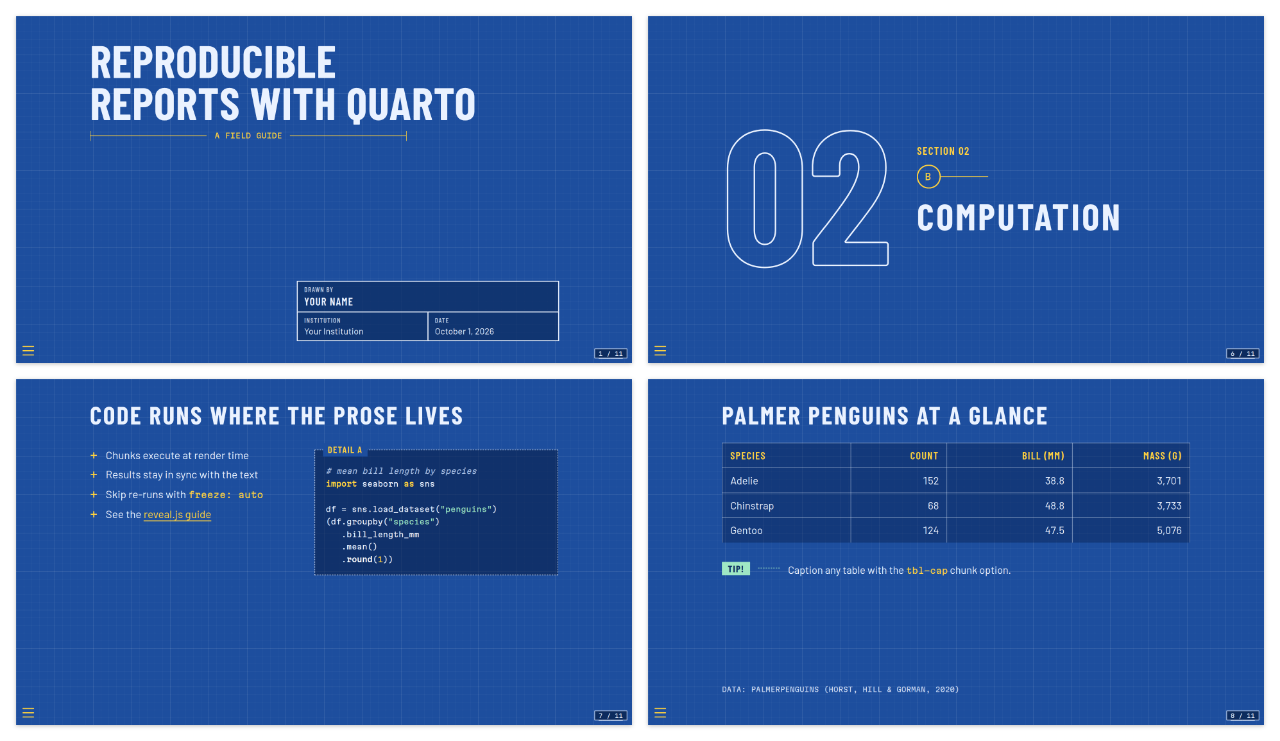
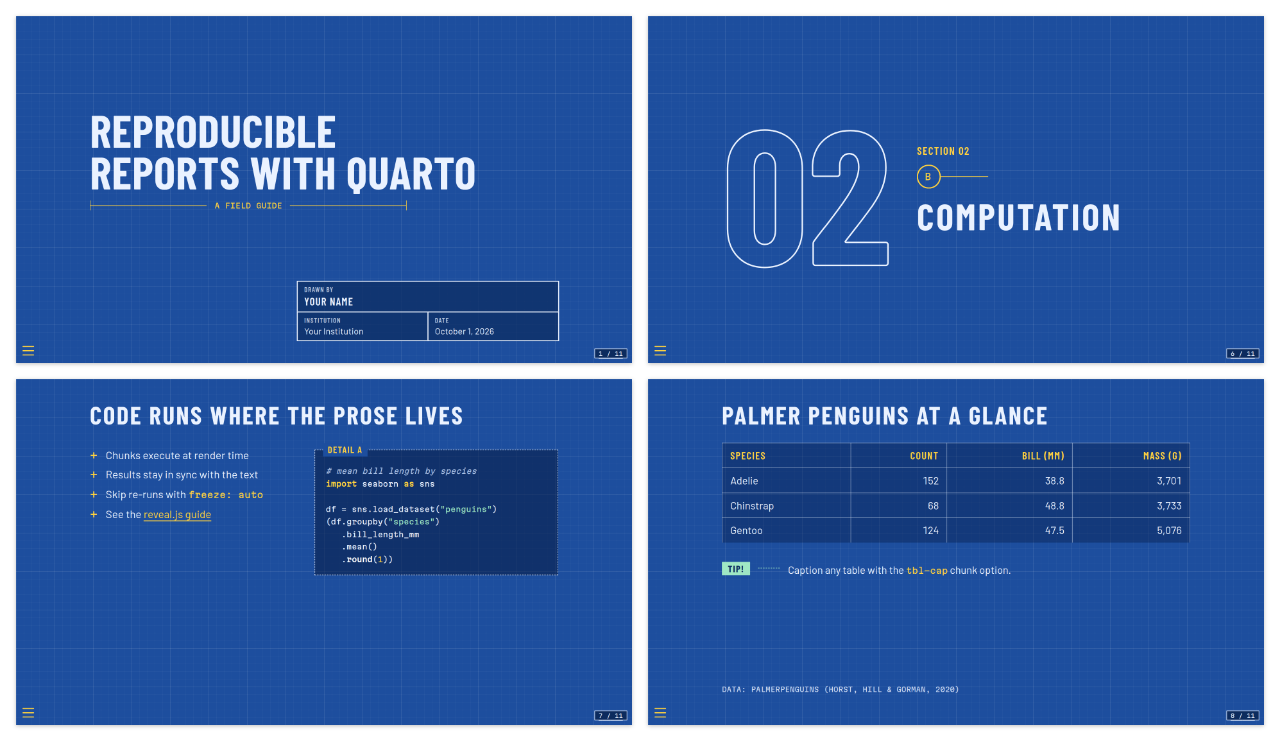
Centre the Blueprint cover title vertically
The title and its dimension line now sit centred in the space above the
title block instead of at the top of the slide.

Claude-Session: https://claude.ai/code/session_01AYQgjzvYRBcmetYfhGp6ZN

Changed region(s): [[0.0625, 0.0621, 0.375, 0.2794]]

diff --git a/_extensions/blueprint/blueprint.scss b/_extensions/blueprint/blueprint.scss
@@ -308,10 +308,11 @@ $code-bg: transparent !default;
     display: grid !important;
   }
   grid-template-columns: 1fr 264px 264px;
-  grid-template-rows: auto auto 1fr auto auto;
+  // title and subtitle centred in the space above the title block
+  grid-template-rows: 1fr auto auto 1fr auto auto;
 
   .title {
-    grid-column: 1 / -1;
+    grid-area: 2 / 1 / 3 / -1;
     max-width: 800px;
     margin: 0 0 16px;
     font-size: 92px;
@@ -321,7 +322,7 @@ $code-bg: transparent !default;
 
   // |——— SUBTITLE ———|
   .subtitle {
-    grid-column: 1 / -1;
+    grid-area: 3 / 1 / 4 / -1;
     display: flex;
     align-items: center;
     gap: 16px;
@@ -372,7 +373,7 @@ $code-bg: transparent !default;
   }
 
   .quarto-title-author-name {
-    grid-area: 4 / 2 / 5 / 4;
+    grid-area: 5 / 2 / 6 / 4;
     @include bp-label(22px);
     letter-spacing: 0.06em;
 
@@ -382,7 +383,7 @@ $code-bg: transparent !default;
   }
 
   .quarto-title-affiliation {
-    grid-area: 5 / 2;
+    grid-area: 6 / 2;
 
     &::before {
       content: "Institution";
@@ -390,7 +391,7 @@ $code-bg: transparent !default;
   }
 
   .date {
-    grid-area: 5 / 3;
+    grid-area: 6 / 3;
 
     &::before {
       content: "Date";
